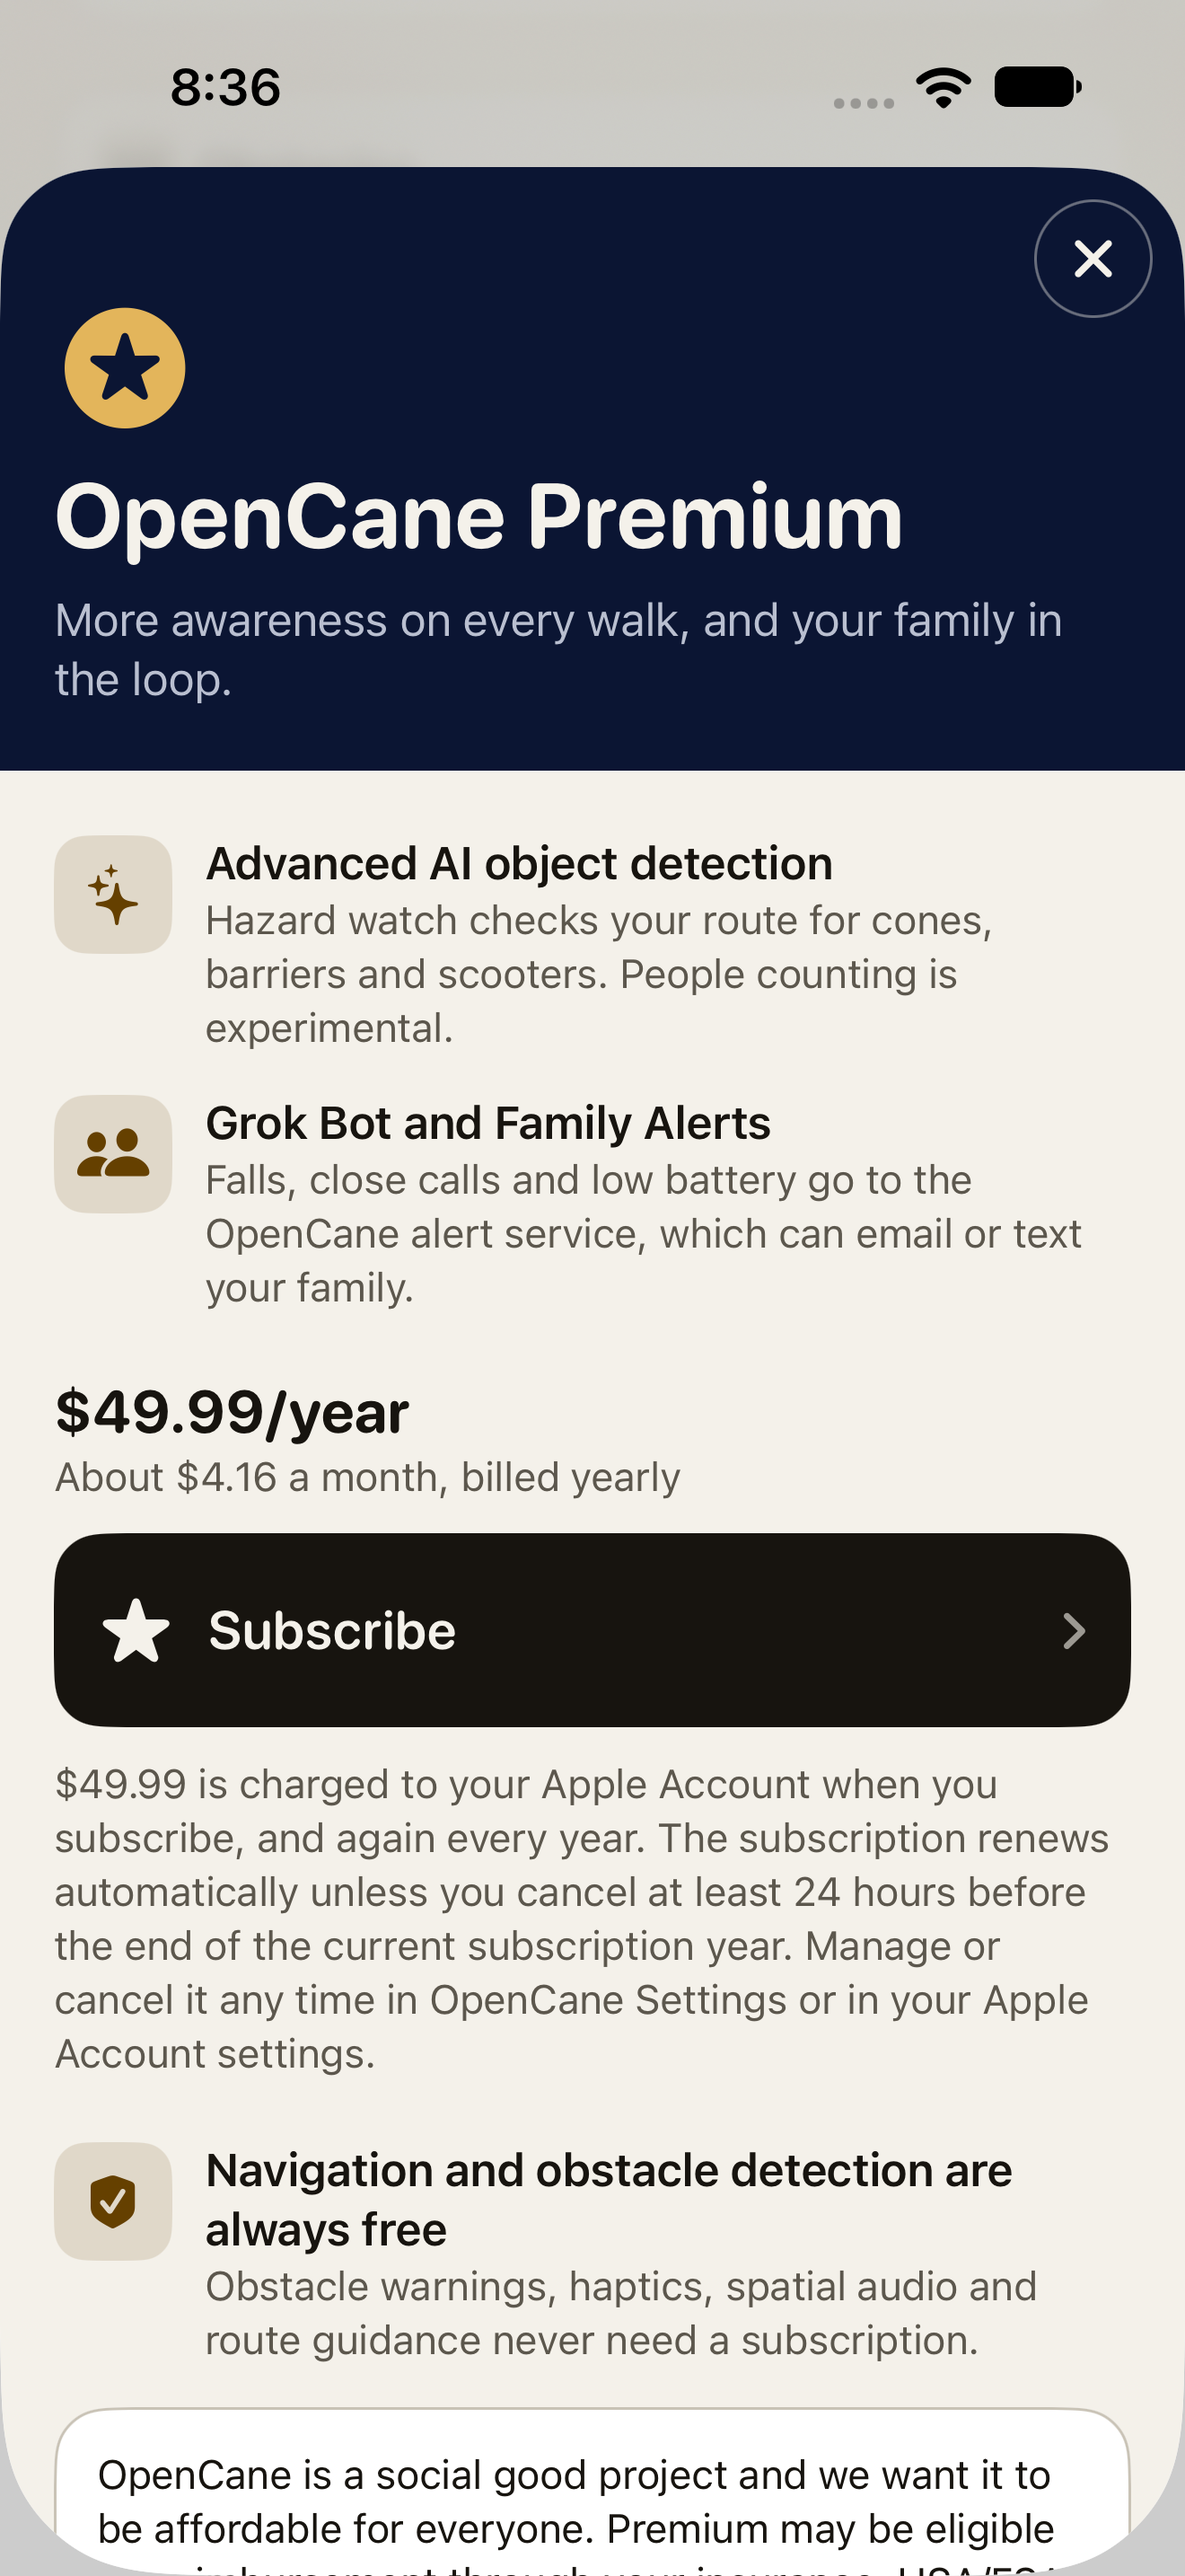
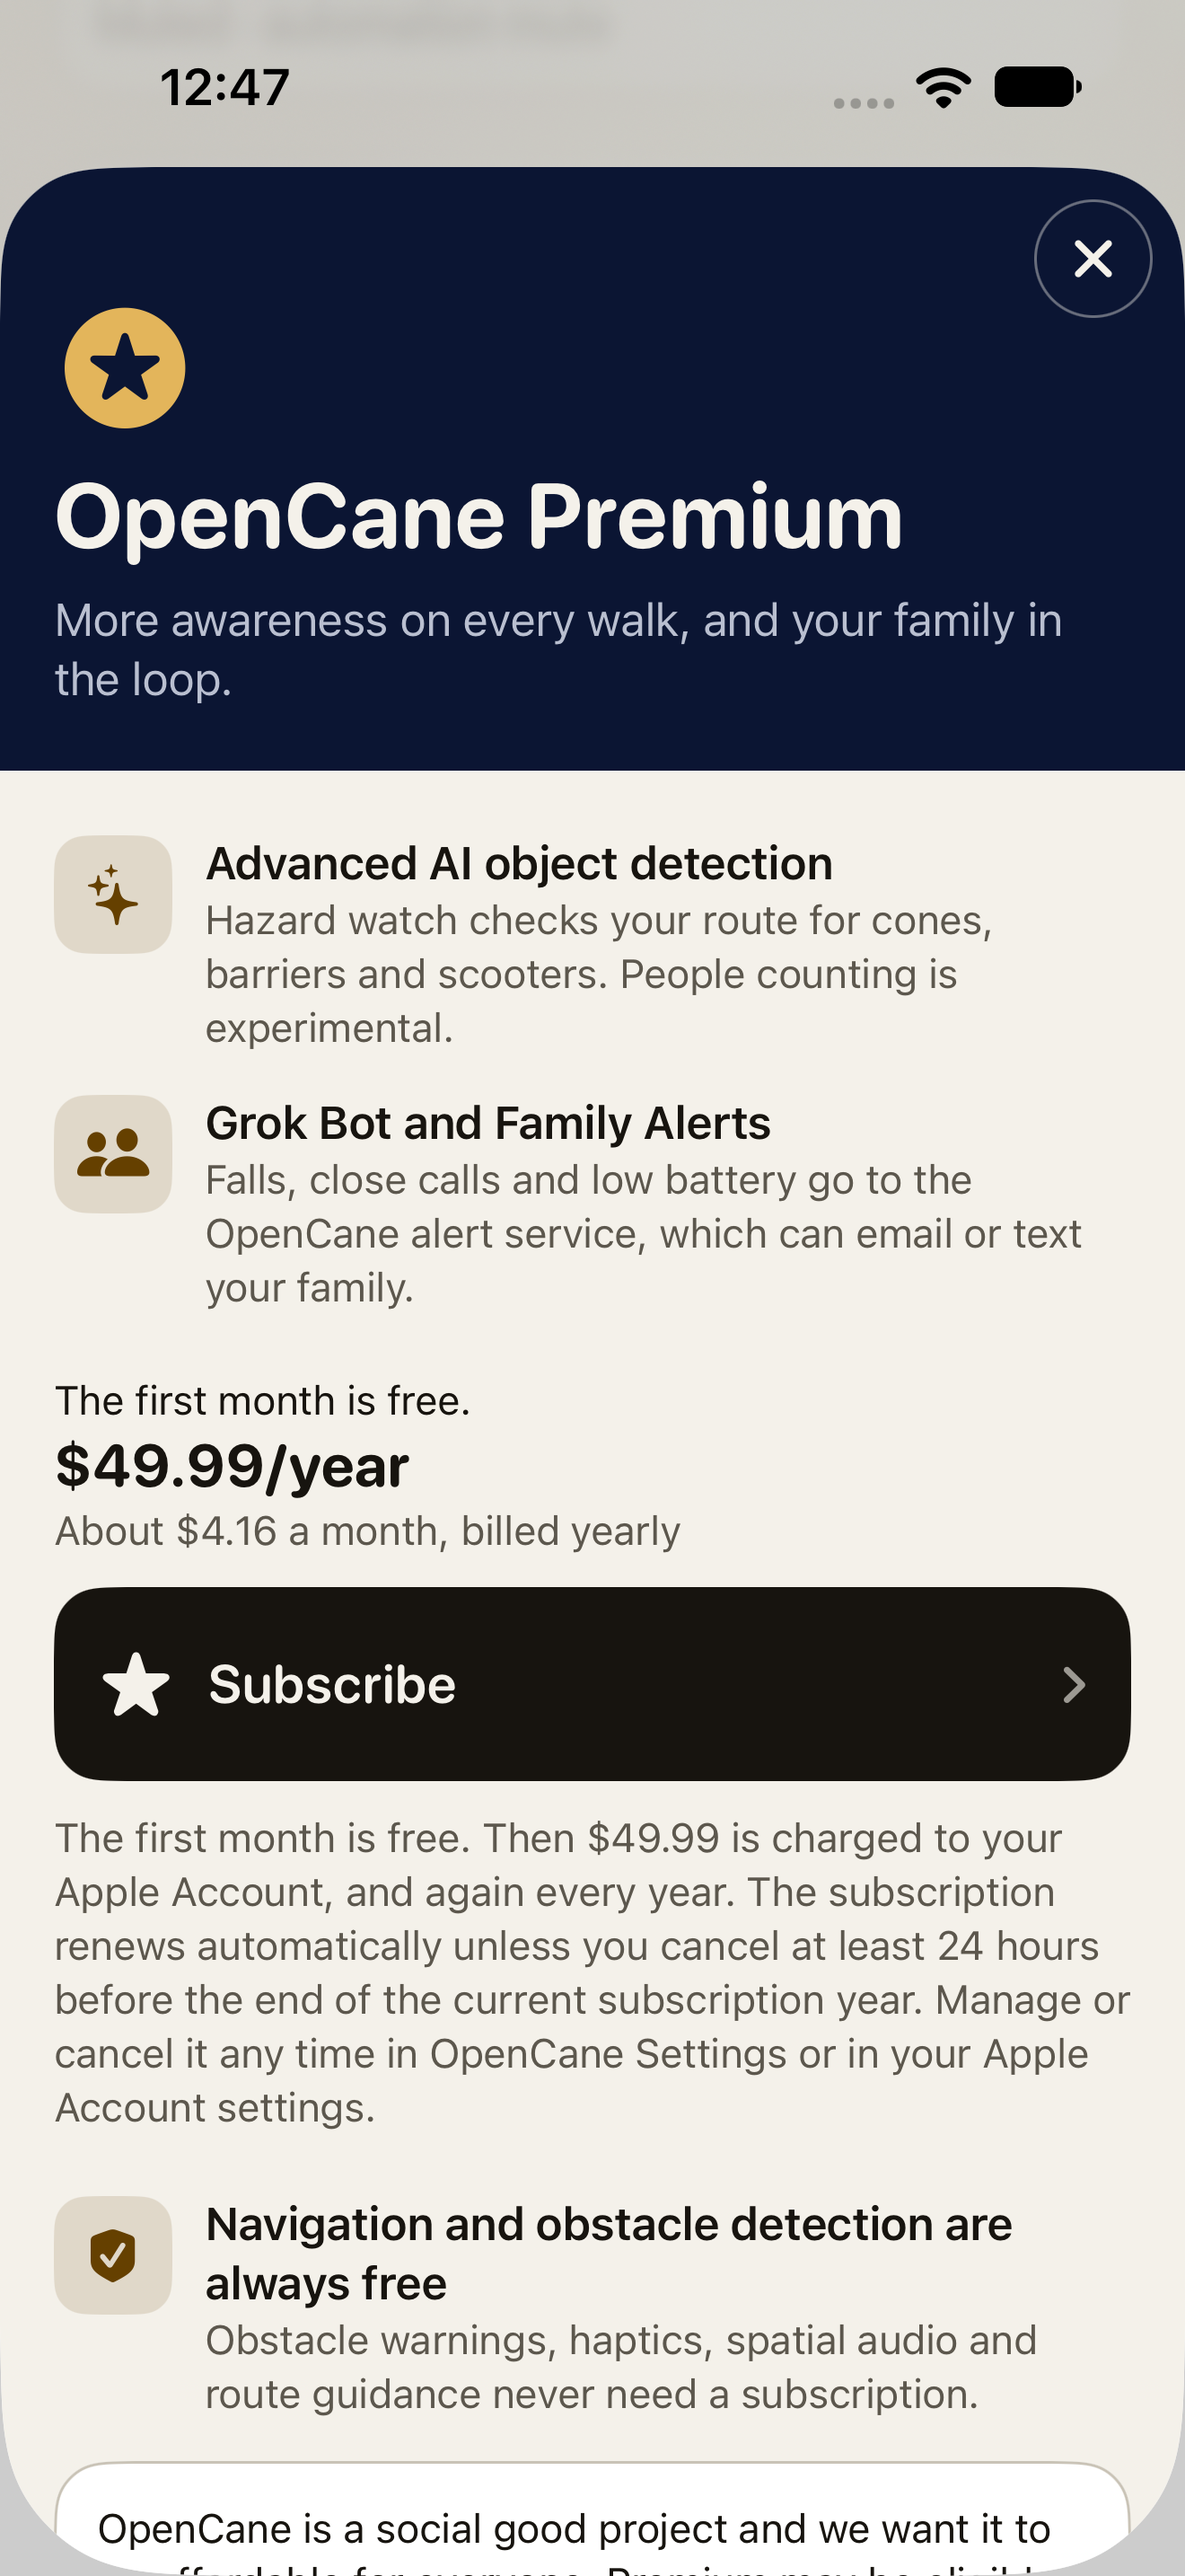
Show the free month on the paywall and add the Devpost paste sheet.
Judges were still looking at a screenshot that charged at subscribe. The price block now says the first month is free when this account can redeem it, and the recaptured shots match.

Changed region(s): [[0.0311, 0.5275, 0.9629, 1.0], [0.1553, 0.031, 0.2485, 0.0621]]

diff --git a/ios/CaneKit/UI/PaywallView.swift b/ios/CaneKit/UI/PaywallView.swift
@@ -7,7 +7,8 @@
 //  Type behaviour are ours to guarantee.
 //
 //  Top to bottom: Close (top right, 44 pt), the navy header with the title "OpenCane Premium",
-//  the two benefits as feature rows, the price block ("$49.99/year", then the per-month figure)
+//  the two benefits as feature rows, the price block ("The first month is free." when this
+//  account can still redeem the intro, then "$49.99/year", then the per-month figure)
 //  — or its loading / error / unavailable state — the Subscribe button, the renewal terms, the
 //  "always free" reminder, the affordability note, then Restore Purchases, Terms of Use and
 //  Privacy Policy.
@@ -20,7 +21,8 @@
 //    · The price block is ONE VoiceOver element whose label is whole sentences
 //      (`PaywallPricing.spokenOffer`: "OpenCane Premium costs $49.99 per year, about $4.16 a
 //      month. It renews automatically every year until you cancel."), so "slash year" is never
-//      read. The renewal terms are ordinary text right under Subscribe.
+//      read. When this account can still redeem the intro, that label and the terms both say
+//      the first month is free. The renewal terms are ordinary text right under Subscribe.
 //    · Success (purchase or restore) unlocks at once — the purchase's own `CustomerInfo` sets
 //      `access` — turns on the switch that opened the paywall, announces it, and closes.
 //      Cancel is silent; a failure is an alert with the store's message.
@@ -154,6 +156,11 @@ struct PaywallView: View {
     private func loadedOffer(_ product: PaywallProduct) -> some View {
         VStack(alignment: .leading, spacing: CKSpacing.md) {
             VStack(alignment: .leading, spacing: 2) {
+                if let trial = product.freeTrialPeriod {
+                    Text("The first \(trial) is free.")
+                        .font(CKFont.secondary)
+                        .foregroundStyle(CKColor.textPrimary)
+                }
                 Text(PaywallPricing.priceLine(localizedPrice: product.localizedPrice))
                     .font(CKFont.title)
                     .foregroundStyle(CKColor.textPrimary)
@@ -168,7 +175,9 @@ struct PaywallView: View {
                                                            localizedPerMonth: product.localizedPerMonth,
                                                            freeTrialPeriod: product.freeTrialPeriod))
             CKBigButton(title: "Subscribe", systemImage: "star.fill",
-                        hint: "Opens the App Store to subscribe for \(product.localizedPrice) a year",
+                        hint: product.freeTrialPeriod.map {
+                            "Starts with a free \($0), then \(product.localizedPrice) a year"
+                        } ?? "Opens the App Store to subscribe for \(product.localizedPrice) a year",
                         value: model.store.isPurchasing ? "Purchasing" : nil) {
                 Task { await subscribe() }
             }

diff --git a/docs/DEVPOST.md b/docs/DEVPOST.md
@@ -1,0 +1,73 @@
+# Devpost paste sheet
+
+Paste these into the RevenueCat Shipaton submission. Spoken name is OpenCane. Do not add a funding dollar amount. Do not attribute the Landuyt Center naming gift to this project.
+
+**Project name:** OpenCane
+
+**Tagline:** A white cane that warns you about what is at waist and head height, with safety always free.
+
+**Built with:** Swift, SwiftUI, ARKit, LiDAR, Core Haptics, RevenueCat, StoreKit, WatchKit, MapKit
+
+**Try it:** https://github.com/TCYTseven/OpenCane
+
+## About the project
+
+A white cane finds what is on the ground. It misses a low branch, a truck mirror, or a sign at face level. OpenCane clips an iPhone Pro to the cane you already own. The phone's LiDAR watches waist and head height, the Taptic Engine shakes the cane, and "Head height." is spoken before you reach an overhang. AirPods play a spatial beacon toward the next turn. An Apple Watch taps crossings onto the wrist. "Where am I" describes the scene on the phone when there is no network.
+
+Obstacle detection, haptics, spatial audio, speech, walking navigation, and emergency calling stay free. OpenCane Premium is $49.99 a year, with the first month free for an Apple Account that can still redeem the introductory offer. Premium adds Hazard watch (cones, barriers, and scooters on the route), people counting, and family alerts through the Grok Bot. The paywall does not open during a walk. Turn Hazard watch on mid-route and the cane says to finish the walk first. Stop, then the paywall appears. RevenueCat is the only third-party package. The purchase unlocks the feature the moment StoreKit returns.
+
+The mount is 3D-printed. Nothing else has to be bought beyond the phone. The app is MIT licensed.
+
+## Inspiration
+
+Blind and low-vision walkers already trust a white cane. The cane cannot see what is coming at the chest or the face. The team built the computer onto the cane people already carry, instead of asking them to buy a new one.
+
+## How we built it
+
+Native iOS 26 app in Swift 6. Depth, haptics, speech, and the Premium gate are tested as pure rules in CaneKitLogic. RevenueCat `purchases-ios` lives in one file, `EntitlementManager.swift`. The local StoreKit file `opencane_premium_annual` is the annual product at $49.99 with a one-month free intro, entitlement `premium`, offering `default`. The paywall is custom SwiftUI so VoiceOver reads the price as sentences, including "The first month is free" only when that account is eligible.
+
+## Challenges
+
+A paywall during a walk is a safety problem, so the gate refuses Premium switches while a route is active and closes the sheet if a walk starts. The product's introductory offer still exists after someone has used it, so the paywall asks RevenueCat whether this Apple Account is eligible before it promises a free month. Returning customers see the charge-at-subscribe terms instead.
+
+## Accomplishments
+
+- First place overall at 54FoundersHack, 1st of 250.
+- Third place on the SpaceX track. SpaceXAI ambassadors are working with the team.
+- Launch posts passed 100,000 impressions on LinkedIn.
+- More than 100 schools across the country have written in.
+- The team is at the University of Illinois Urbana-Champaign and is working with the university and the Landuyt Center for Entrepreneurship (https://landuyt.illinois.edu/).
+- Funding is in place to keep building.
+
+## What we learned
+
+Safety features cannot sit behind a purchase. The subscription has to be the extra awareness and the family loop, and it has to wait until the person is standing still.
+
+## What's next
+
+Cane-mounted walks that tune the head-height and drop-off thresholds, then the same kit in more hands through the schools that have already written in.
+
+## Demo beats
+
+Follow `docs/DEMO_SCRIPT.md`. The cut judges should see:
+
+1. Splash and onboarding.
+2. A walk. The cane buzzes and says "Head height." Obstacle detection stays free.
+3. Hazard watch during the walk. No paywall. A voice notice says to finish the walk first.
+4. Stop. Hazard watch opens the paywall. "The first month is free." Then $49.99/year.
+5. StoreKit test purchase. Hazard watch turns on.
+6. The unlocked feature: a cone or barrier on the route, or Settings → Send a test alert.
+
+## Images already in the repo
+
+- `docs/images/devpost-1179x2556.png` (1179×2556, no device chrome)
+- `docs/images/splash.png`
+- `docs/images/onboarding.png`
+- `docs/images/guide.png`
+- `docs/images/navigating.png`
+- `docs/images/paywall.png`
+- `docs/images/settings-premium.png`
+- `docs/images/hazard-watch.png`
+- `docs/images/opencane-icon-1024.png`
+
+**Team:** Aritro, Aarav, Tejas (software). Sagar, Tommy (hardware).

diff --git a/docs/DEMO_SCRIPT.md b/docs/DEMO_SCRIPT.md
@@ -29,7 +29,7 @@ targets; the whole cut should land under 2:00.
 | 0:06–0:25 | **Onboarding.** Swipe page 1 → page 2 (LiDAR, waist and head height) → page 3. On page 4, tap **Allow** on camera, location and microphone, then **Get Started**. Optionally turn on VoiceOver for one page to show that Next is reachable and the title is read. | "A cane finds what's on the ground. It misses what's at waist and head height. That's what the LiDAR covers." |
 | 0:25–1:05 | **A real walk.** Clip the phone to the cane. Guide → start a route (or type a destination and tap Go). Walk toward the head-height obstacle: the cane buzzes and you hear **"Head height."** Cut to the Details tab's lane grid turning red, and to a wrist tap on the watch at a turn. | "Obstacle detection, haptics, spatial audio and turn-by-turn guidance are free, for everyone, always." |
 | 1:05–1:15 | Still walking, tap **Details → Hazard watch**. **No paywall.** You hear "Premium features can be turned on after this walk." Then **Stop route**. | "OpenCane never puts a paywall in front of someone mid-walk." |
-| 1:15–1:30 | Stopped. Tap **Hazard watch** again: the **OpenCane Premium** paywall shows the two benefits, **$49.99/year** with the per-month price, the affordability note, and "navigation and obstacle detection are always free". | "Premium adds two things: advanced AI object detection, and Grok Bot Family Alerts. It may be reimbursable through insurance, an HSA or FSA, or a vision rehab program." |
+| 1:15–1:30 | Stopped. Tap **Hazard watch** again: the **OpenCane Premium** paywall shows the two benefits, **The first month is free.**, **$49.99/year** with the per-month price, the renewal terms, the affordability note, and "navigation and obstacle detection are always free". | "Premium adds two things: advanced AI object detection, and Grok Bot Family Alerts. The first month is free, then $49.99 a year. It may be reimbursable through insurance, an HSA or FSA, or a vision rehab program." |
 | 1:30–1:42 | Tap **Subscribe**, confirm the StoreKit test sheet. The paywall closes and Hazard watch is already **on**. Flash Settings → "OpenCane Premium is on · Renews on …". | "RevenueCat handles the subscription, restore and entitlement. It unlocks the moment the purchase goes through." |
 | 1:42–1:58 | **Unlocked feature working.** Start the route again and walk past a cone or barrier: Hazard watch speaks it. Or: Settings → Family alerts → **Send a test alert**, then show the family email or text arriving. | "Hazard watch spots cones, barriers and scooters, and family alerts let the people who care know if something goes wrong." |
 | 1:58–2:00 | End card: logo, "OpenCane · open source · MIT". | — |

diff --git a/README.md b/README.md
@@ -48,7 +48,7 @@ insurance, an HSA/FSA or a vision rehabilitation program.
   <img src="docs/images/settings-premium.png" width="180" alt="Settings showing the free plan">
 </p>
 
-The Devpost frame (1179×2556, no device chrome) is [`docs/images/devpost-1179x2556.png`](docs/images/devpost-1179x2556.png).
+The Devpost frame (1179×2556, no device chrome) is [`docs/images/devpost-1179x2556.png`](docs/images/devpost-1179x2556.png). Paste-ready submission text is [`docs/DEVPOST.md`](docs/DEVPOST.md).
 The 1024 icon is [`docs/images/opencane-icon-1024.png`](docs/images/opencane-icon-1024.png).
 The two-minute demo flow is in [`docs/DEMO_SCRIPT.md`](docs/DEMO_SCRIPT.md).
 
